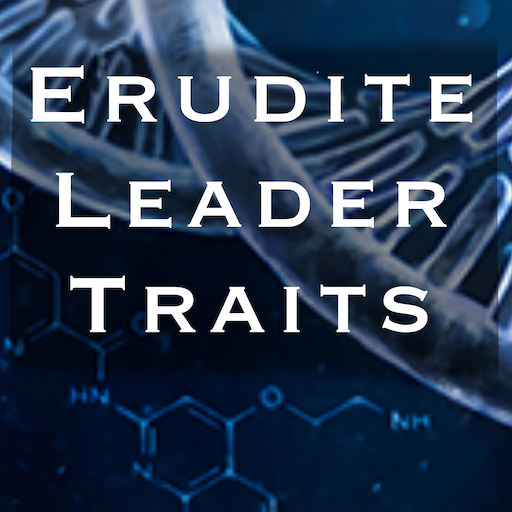
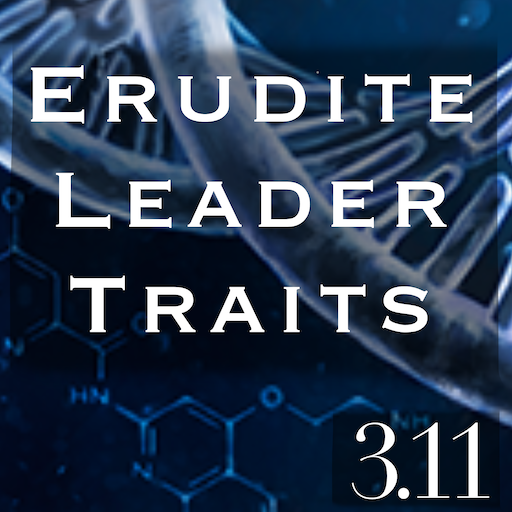
updated for 3.11

Changed region(s): [[0.6562, 0.7812, 0.9688, 1.0]]

diff --git a/EruditeLeaderTraits/Description.md b/EruditeLeaderTraits/Description.md
@@ -1,5 +1,7 @@
 [h1] Erudite Leader Traits [/h1]
 
+UPDATED FOR 3.11
+
 Erudite Leader Traits is a small mod that adds many new veteran traits (and a destiny trait) that are available to any Erudite leader. The aim was to build upon the ascension paths to allow for more diverse roleplay/thematics and some new gameplay elements.
 
 These leader traits are weighted to be somewhat rare and balanced to be slightly more powerful than an average trait, however like any leader trait, their effectiveness will vary on the current strategy.
